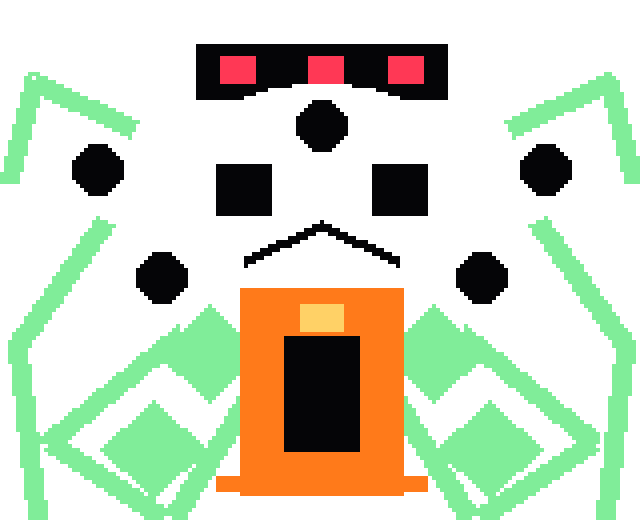
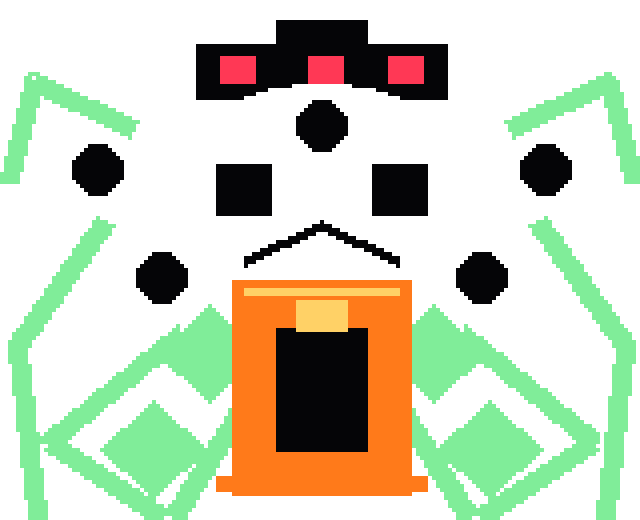
Improve boss portraits and late fight patterns

Changed region(s): [[0.3438, 0.5231, 0.6562, 0.9231], [0.4062, 0.0308, 0.5938, 0.0923]]

diff --git a/script.js b/script.js
@@ -939,6 +939,16 @@ function updateShots(dt) {
             warn: 0.08,
             life: 0.45,
           });
+          spawn("beam", {
+            x: arena.x,
+            y: b.y,
+            vx: 0,
+            vy: 0,
+            r: 24,
+            horizontal: true,
+            warn: 0.08,
+            life: 0.32,
+          });
         }
         b.y = arena.y - 200;
         shot.hit = true;
@@ -1443,6 +1453,26 @@ function omegaPattern(dt) {
       const a = (Math.PI * 2 * i) / 12 + t * 0.45;
       spawn("pellet", { x: arena.x + arena.w / 2, y: arena.y + arena.h / 2, vx: Math.cos(a) * (162 + progress * 18), vy: Math.sin(a) * (162 + progress * 18), r: 8, angle: a, spin: -2.5 });
     }
+  }
+  if (state.wave === 2 && every("omega-spiral", 0.34 - progress * 0.05, dt)) {
+    const index = sequenceIndex(0.34 - progress * 0.05);
+    const origin = [
+      [arena.x + 28, arena.y + 28],
+      [arena.x + arena.w - 28, arena.y + 28],
+      [arena.x + arena.w - 28, arena.y + arena.h - 28],
+      [arena.x + 28, arena.y + arena.h - 28],
+    ][Math.floor(index / 5) % 4];
+    const angle = t * 1.9 + index * 0.82;
+    spawn("pellet", { x: origin[0], y: origin[1], vx: Math.cos(angle) * (126 + progress * 34), vy: Math.sin(angle) * (126 + progress * 34), r: 7, angle, spin: -2.7 });
+  }
+  if (state.wave === 2 && every("omega-vine-rake", 1.42 - progress * 0.12, dt)) {
+    const index = sequenceIndex(1.42 - progress * 0.12);
+    const safe = index % 4;
+    for (let i = 0; i < 4; i++) {
+      if (i === safe) continue;
+      const y = arena.y + arena.h * ([0.22, 0.42, 0.62, 0.82][i]);
+      spawn("vine", { x: arena.x, y, vx: 0, vy: 0, r: 24, horizontal: true, warn: intensityRange(0.6, 0.44), life: 0.82 });
+    }
   } else if (state.wave >= 1 && every("omega-pellet-lanes", pelletLaneInterval, dt)) {
     const index = sequenceIndex(pelletLaneInterval);
     const fromLeft = index % 2 === 0;
@@ -1485,6 +1515,30 @@ function asrielPattern(dt) {
       spawn("diamond", { x: arena.x + arena.w / 2, y: arena.y + arena.h / 2, vx: Math.cos(a) * 174, vy: Math.sin(a) * 174, r: 10, spin: -4 });
     }
   }
+  if (state.wave === 2 && every("asriel-shocker", 1.48 - progress * 0.14, dt)) {
+    const index = sequenceIndex(1.48 - progress * 0.14);
+    const safeColumn = index % 5;
+    for (let i = 0; i < 5; i++) {
+      if (i === safeColumn || i === (safeColumn + 1) % 5) continue;
+      spawn("beam", {
+        x: arena.x + arena.w * (0.14 + i * 0.18),
+        y: arena.y,
+        vx: 0,
+        vy: 0,
+        r: 24,
+        horizontal: false,
+        warn: intensityRange(0.7, 0.52),
+        life: 0.88,
+      });
+    }
+    if (index % 2 === 1) {
+      const safeRow = [0.28, 0.62, 0.44][index % 3];
+      for (const row of [0.26, 0.48, 0.7]) {
+        if (Math.abs(row - safeRow) < 0.08) continue;
+        spawn("beam", { x: arena.x, y: arena.y + arena.h * row, vx: 0, vy: 0, r: 24, horizontal: true, warn: intensityRange(0.78, 0.58), life: 0.84 });
+      }
+    }
+  }
 }
 
 function mettatonPattern(dt) {
@@ -1512,10 +1566,19 @@ function mettatonPattern(dt) {
   }
   if (state.wave >= 1 && every("mettaton-bombs", bombInterval, dt)) {
     const index = sequenceIndex(bombInterval);
-    const kind = index % 3 === 0 ? "box" : "bomb";
-    const lanes = [0.18, 0.38, 0.58, 0.78];
+    const kind = index % 4 === 1 ? "box" : "bomb";
+    const lanes = [0.18, 0.34, 0.5, 0.66, 0.82];
     const x = arena.x + arena.w * lanes[index % lanes.length];
-    spawn(kind, { x, y: arena.y - 24, vx: Math.sin(t * 5) * 54, vy: 210 + (index % 3) * 24, r: 13, spin: 5 });
+    const sway = kind === "bomb" ? Math.sin(t * 5) * 46 : Math.sin(t * 3 + index) * 26;
+    spawn(kind, { x, y: arena.y - 24, vx: sway, vy: (kind === "bomb" ? 204 : 184) + (index % 3) * 22 + progress * 22, r: 13, spin: 5 });
+  }
+  if (state.wave === 1 && every("mettaton-box-wall", 1.22 - progress * 0.08, dt)) {
+    const gap = sequenceIndex(1.22 - progress * 0.08) % 5;
+    for (let i = 0; i < 5; i++) {
+      if (i === gap || i === (gap + 1) % 5) continue;
+      const x = arena.x + arena.w * (0.14 + i * 0.18);
+      spawn("box", { x, y: arena.y - 24, vx: 0, vy: 176 + progress * 26, r: 13, spin: 4 });
+    }
   }
   if (state.wave === 2 && every("mettaton-rush", legInterval, dt)) {
     const y = arena.y + arena.h * ([0.22, 0.44, 0.68, 0.82, 0.36][sequenceIndex(legInterval) % 5]);

diff --git a/tools/generate_boss_portraits.py b/tools/generate_boss_portraits.py
@@ -65,17 +65,29 @@ def skull(draw, cx, cy, scale=1, eye=BLACK, wink=False):
         rect(draw, (cx + x * s, cy + 13 * s, cx + (x + 2) * s, cy + 20 * s), BLACK)
 
 
+def shirt_panel(draw, x1, y1, x2, y2, base=BLACK, trim=WHITE):
+    rect(draw, (x1, y1, x2, y2), trim)
+    rect(draw, (x1 + 5, y1 + 4, x2 - 5, y2 - 4), base)
+
+
+def chest_heart(draw, cx, cy, color=RED):
+    rect(draw, (cx - 7, cy - 4, cx + 7, cy + 7), color)
+    rect(draw, (cx - 4, cy - 8, cx + 4, cy - 2), color)
+    rect(draw, (cx - 2, cy + 8, cx + 2, cy + 12), color)
+
+
 def sans():
     img = new_canvas()
     d = ImageDraw.Draw(img)
     skull(d, 80, 31, 1, BLUE, True)
     line(d, [(49, 55), (39, 83), (48, 105)], WHITE, 5)
     line(d, [(111, 55), (121, 83), (112, 105)], WHITE, 5)
-    rect(d, (48, 56, 112, 96), WHITE)
-    rect(d, (57, 59, 103, 93), BLACK)
-    rect(d, (50, 56, 62, 94), BLUE)
-    rect(d, (98, 56, 110, 94), BLUE)
-    rect(d, (72, 57, 88, 96), WHITE)
+    rect(d, (45, 54, 115, 98), WHITE)
+    rect(d, (54, 58, 106, 94), BLACK)
+    rect(d, (48, 55, 65, 96), BLUE)
+    rect(d, (95, 55, 112, 96), BLUE)
+    rect(d, (70, 57, 90, 98), WHITE)
+    rect(d, (75, 60, 85, 92), BLACK)
     rect(d, (57, 64, 68, 79), WHITE)
     rect(d, (92, 64, 103, 79), WHITE)
     rect(d, (54, 79, 70, 91), WHITE)
@@ -113,12 +125,13 @@ def papyrus():
     d = ImageDraw.Draw(img)
     skull(d, 80, 24, 1, BLACK)
     line(d, [(76, 8), (124, 2), (137, 10)], YELLOW, 2)
-    rect(d, (55, 45, 105, 56), RED)
-    rect(d, (43, 55, 117, 66), WHITE)
-    rect(d, (52, 66, 108, 88), WHITE)
-    rect(d, (58, 64, 102, 93), BLACK)
-    rect(d, (63, 67, 97, 88), WHITE)
-    rect(d, (70, 70, 90, 83), BLACK)
+    rect(d, (50, 43, 110, 56), RED)
+    rect(d, (43, 55, 117, 68), WHITE)
+    rect(d, (50, 66, 110, 93), WHITE)
+    shirt_panel(d, 57, 67, 103, 93, BLACK, WHITE)
+    rect(d, (66, 70, 94, 83), WHITE)
+    rect(d, (72, 73, 88, 82), BLACK)
+    rect(d, (70, 58, 90, 63), RED)
     rect(d, (55, 55, 65, 67), RED)
     rect(d, (95, 55, 105, 67), RED)
     line(d, [(50, 60), (31, 93), (17, 120)], WHITE, 4)
@@ -141,17 +154,20 @@ def undyne(name="undyne", undying=False):
     color = GREEN if undying else BLUE
     armor = GREEN if undying else DEEP_BLUE
     poly(d, [(53, 10), (79, 0), (104, 8), (119, 27), (105, 51), (78, 58), (52, 44)], WHITE)
-    rect(d, (57, 20, 69, 29), BLACK)
-    rect(d, (88, 22, 102, 30), BLACK)
-    rect(d, (54, 19, 70, 25), WHITE)
+    rect(d, (57, 20, 70, 30), BLACK)
+    rect(d, (86, 21, 103, 31), BLACK)
+    rect(d, (55, 18, 71, 24), WHITE)
+    line(d, [(62, 43), (78, 48), (96, 42)], BLACK, 2)
     line(d, [(54, 11), (27, 0), (12, 5), (32, 16)], color, 3)
     line(d, [(49, 17), (11, 24), (0, 34)], color, 3)
     line(d, [(104, 18), (129, 8), (142, 19), (111, 44)], WHITE, 3)
     line(d, [(38, 63), (80, 48), (122, 63)], WHITE, 5)
-    poly(d, [(48, 64), (112, 64), (102, 105), (80, 118), (58, 105)], armor)
-    rect(d, (66, 76, 94, 91), BLACK)
-    line(d, [(60, 69), (100, 69)], WHITE, 2)
-    line(d, [(80, 63), (80, 111)], WHITE, 2)
+    poly(d, [(44, 63), (116, 63), (105, 107), (80, 121), (55, 107)], armor)
+    rect(d, (62, 74, 98, 96), BLACK)
+    rect(d, (69, 76, 91, 91), color)
+    rect(d, (76, 76, 84, 96), BLACK)
+    line(d, [(57, 69), (103, 69)], WHITE, 2)
+    line(d, [(80, 63), (80, 114)], WHITE, 2)
     if undying:
         rect(d, (69, 72, 91, 88), RED)
         line(d, [(47, 73), (113, 73)], GREEN, 3)
@@ -176,13 +192,16 @@ def asgore():
     line(d, [(58, 23), (25, 0), (33, 47)], GOLD, 5)
     line(d, [(102, 23), (135, 0), (127, 47)], GOLD, 5)
     poly(d, [(45, 24), (62, 8), (98, 8), (115, 24), (106, 51), (80, 63), (54, 51)], WHITE)
-    rect(d, (57, 40, 103, 57), GOLD)
-    rect(d, (65, 27, 74, 34), BLACK)
-    rect(d, (86, 27, 95, 34), BLACK)
-    line(d, [(70, 43), (80, 48), (90, 43)], BLACK, 2)
+    rect(d, (55, 39, 105, 59), GOLD)
+    rect(d, (64, 27, 75, 35), BLACK)
+    rect(d, (85, 27, 96, 35), BLACK)
+    rect(d, (68, 47, 92, 52), BLACK)
+    line(d, [(68, 43), (80, 49), (92, 43)], BLACK, 2)
     line(d, [(27, 69), (57, 54), (103, 54), (133, 69)], WHITE, 5)
-    poly(d, [(35, 70), (125, 70), (111, 120), (80, 129), (49, 120)], WHITE)
-    rect(d, (58, 75, 102, 114), BLACK)
+    poly(d, [(32, 70), (128, 70), (113, 121), (80, 129), (47, 121)], WHITE)
+    shirt_panel(d, 56, 74, 104, 116, BLACK, WHITE)
+    line(d, [(65, 80), (95, 80)], GOLD, 2)
+    chest_heart(d, 80, 95, GOLD)
     poly(d, [(52, 72), (20, 126), (55, 122)], WHITE)
     poly(d, [(108, 72), (140, 126), (105, 122)], WHITE)
     line(d, [(80, 74), (80, 119)], YELLOW, 3)
@@ -206,6 +225,7 @@ def omega():
     rect(d, (55, 14, 63, 20), RED)
     rect(d, (77, 14, 85, 20), RED)
     rect(d, (97, 14, 105, 20), RED)
+    rect(d, (69, 5, 91, 11), BLACK)
     draw_omega_face(d, 80, 49)
     for x, y in [(24, 42), (136, 42), (40, 69), (120, 69), (80, 31)]:
         draw_eye(d, x, y)
@@ -222,9 +242,10 @@ def omega():
         line(d, pts, GREEN, 5)
     for x, y in [(52, 88), (108, 88), (38, 112), (122, 112)]:
         poly(d, [(x, y - 12), (x + 13, y), (x, y + 12), (x - 13, y)], GREEN)
-    rect(d, (60, 72, 100, 123), ORANGE)
-    rect(d, (71, 84, 89, 112), BLACK)
-    rect(d, (75, 76, 85, 82), YELLOW)
+    rect(d, (58, 70, 102, 123), ORANGE)
+    rect(d, (69, 82, 91, 112), BLACK)
+    rect(d, (74, 75, 86, 82), YELLOW)
+    line(d, [(61, 72), (99, 72)], YELLOW, 2)
     line(d, [(54, 120), (106, 120)], ORANGE, 4)
     save(img, "omega")
 
@@ -247,16 +268,18 @@ def asriel():
     line(d, [(56, 18), (34, 0), (42, 36)], WHITE, 3)
     line(d, [(104, 18), (126, 0), (118, 36)], WHITE, 3)
     poly(d, [(50, 23), (65, 10), (95, 10), (110, 23), (101, 46), (80, 55), (59, 46)], WHITE)
-    rect(d, (66, 27, 75, 34), BLACK)
-    rect(d, (85, 27, 94, 34), BLACK)
-    line(d, [(70, 43), (80, 48), (90, 43)], BLACK, 2)
+    rect(d, (65, 26, 76, 34), BLACK)
+    rect(d, (84, 26, 95, 34), BLACK)
+    rect(d, (72, 44, 88, 48), BLACK)
+    line(d, [(69, 41), (80, 48), (91, 41)], BLACK, 2)
     poly(d, [(43, 58), (5, 74), (32, 91), (13, 113), (58, 87)], WHITE)
     poly(d, [(117, 58), (155, 74), (128, 91), (147, 113), (102, 87)], WHITE)
     line(d, [(37, 59), (123, 59)], WHITE, 5)
-    poly(d, [(47, 61), (113, 61), (104, 117), (80, 127), (56, 117)], PURPLE)
-    poly(d, [(70, 72), (80, 103), (90, 72), (80, 63)], WHITE)
-    rect(d, (70, 74, 90, 81), RED)
-    rect(d, (73, 83, 87, 91), BLUE)
+    poly(d, [(45, 60), (115, 60), (106, 118), (80, 128), (54, 118)], PURPLE)
+    shirt_panel(d, 63, 68, 97, 102, BLACK, PURPLE)
+    poly(d, [(69, 72), (80, 104), (91, 72), (80, 62)], WHITE)
+    rect(d, (70, 75, 90, 82), RED)
+    rect(d, (73, 84, 87, 93), BLUE)
     line(d, [(63, 64), (46, 104)], WHITE, 2)
     line(d, [(97, 64), (114, 104)], WHITE, 2)
     line(d, [(41, 86), (21, 123)], WHITE, 3)
@@ -268,15 +291,18 @@ def mettaton():
     img = new_canvas()
     d = ImageDraw.Draw(img)
     poly(d, [(59, 3), (96, 3), (116, 20), (111, 44), (82, 53), (51, 44), (43, 21)], WHITE)
-    poly(d, [(58, 4), (33, 1), (20, 17), (44, 16)], HAIR)
-    rect(d, (63, 25, 73, 32), BLACK)
-    rect(d, (88, 25, 98, 32), BLACK)
-    line(d, [(66, 40), (84, 43), (101, 37)], BLACK, 2)
+    poly(d, [(59, 4), (34, 0), (18, 16), (44, 17), (54, 9)], HAIR)
+    rect(d, (62, 24, 74, 32), BLACK)
+    rect(d, (87, 24, 99, 32), BLACK)
+    rect(d, (69, 39, 97, 43), BLACK)
+    line(d, [(65, 38), (83, 44), (102, 36)], BLACK, 2)
     line(d, [(18, 61), (56, 55), (104, 55), (142, 61)], WHITE, 4)
     rect(d, (48, 57, 112, 67), PINK)
-    poly(d, [(55, 66), (105, 66), (101, 102), (80, 116), (59, 102)], WHITE)
+    poly(d, [(53, 66), (107, 66), (102, 104), (80, 118), (58, 104)], WHITE)
+    shirt_panel(d, 63, 70, 97, 103, BLACK, WHITE)
     d.ellipse((67, 73, 93, 99), fill=PINK)
-    rect(d, (72, 78, 88, 94), WHITE)
+    rect(d, (73, 79, 87, 93), WHITE)
+    rect(d, (76, 82, 84, 90), PINK)
     line(d, [(50, 73), (17, 117)], WHITE, 3)
     line(d, [(110, 73), (143, 117)], WHITE, 3)
     line(d, [(65, 101), (43, 126)], WHITE, 4)

diff --git a/README.md b/README.md
@@ -19,6 +19,7 @@ This is a fan-made practice project with original code and simple original visua
 Each fight uses original generated pixel-style PNG portraits, 8-bit bullets, and an original browser-generated chiptune loop.
 The BGM loops are original chiptune-style tracks tuned to each boss's mood and tempo; they do not copy Undertale's actual songs.
 Boss portraits use original fan-art pixel sprites made from small square pieces with recognizable character shapes, outfits, weapons, and poses.
+Portraits now place faces, shirts, armor panels, robes, and chest emblems more deliberately so the characters read better at battle size and roster-thumbnail size.
 The boss select cards also show these portraits as pixel thumbnails so the roster is recognizable before the fight starts.
 In battle, each portrait has boss-specific sizing and a pixel outline so large bosses, short bosses, and trio characters keep their intended silhouettes.
 The battle stage also draws boss-specific pixel cues behind portraits, including bones, spears, tridents, flames, vines, eyes, wings, stars, and Mettaton-style lights.
@@ -35,6 +36,7 @@ Bullet patterns are boss-themed for practice: bones and blaster lanes, spear shi
 Patterns are inspired by the recognizable mechanics from the boss fights, but they are retimed and simplified for practice.
 Several fights use scripted lane/sequenced attacks to feel closer to their source mechanics, such as Undyne's directional shield arrows, Sans-style bone lanes and beams, Asgore trident/fire sweeps, and Mettaton spotlight/bomb lanes.
 Omega Flowey and Asriel also use more staged lane patterns, with vine grids, pellet bursts with gaps, star curtains, saber sweeps, and ring attacks with readable safe spaces.
+Mettaton yellow-heart waves now reward shooting bombs with cross blasts, Omega Flowey's finale adds corner spiral pellets and vine rakes with safe lanes, and Asriel's finale adds shocker-style beam columns with planned escape gaps.
 Large weapon attacks now show short lane warnings before moving, making tridents, sabers, spears, and leg sweeps feel more deliberate.
 Undyne-style green-heart turns use square-box shield reads with multi-direction arrow chords and warning lanes.
 Boss waves also adjust the battle box shape for closer practice feel, including low corridor boxes, narrow cage boxes, wide final-phase boxes, and tall yellow-heart boxes.

diff --git a/assets/bosses/README.md b/assets/bosses/README.md
@@ -2,6 +2,7 @@
 
 The game loads original generated pixel-art PNG portraits from this folder before using the canvas fallback sprites.
 The portraits are fan-made square-piece silhouettes with stronger costume, weapon, and pose cues for recognition.
+The generator places each face and shirt or armor panel by hand so the small thumbnails still show the right character silhouette.
 
 Included/expected filenames:
 
